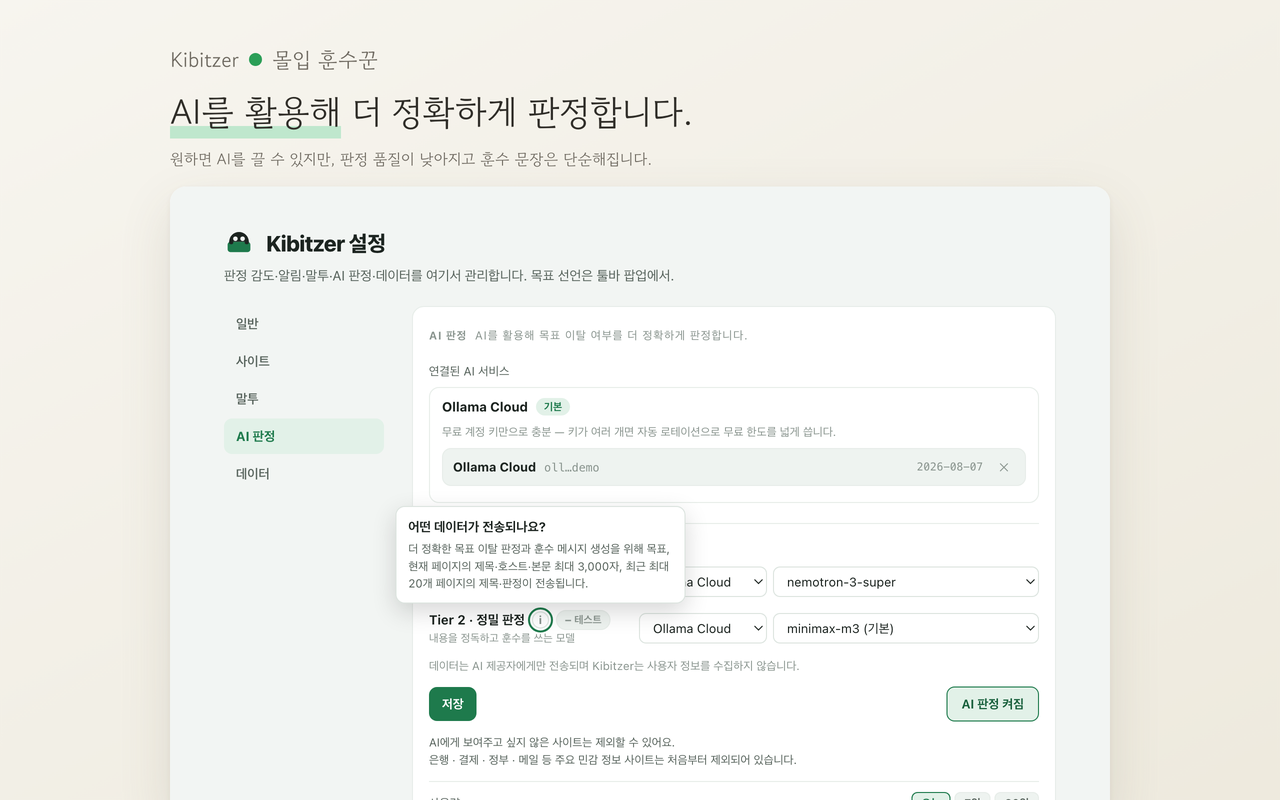
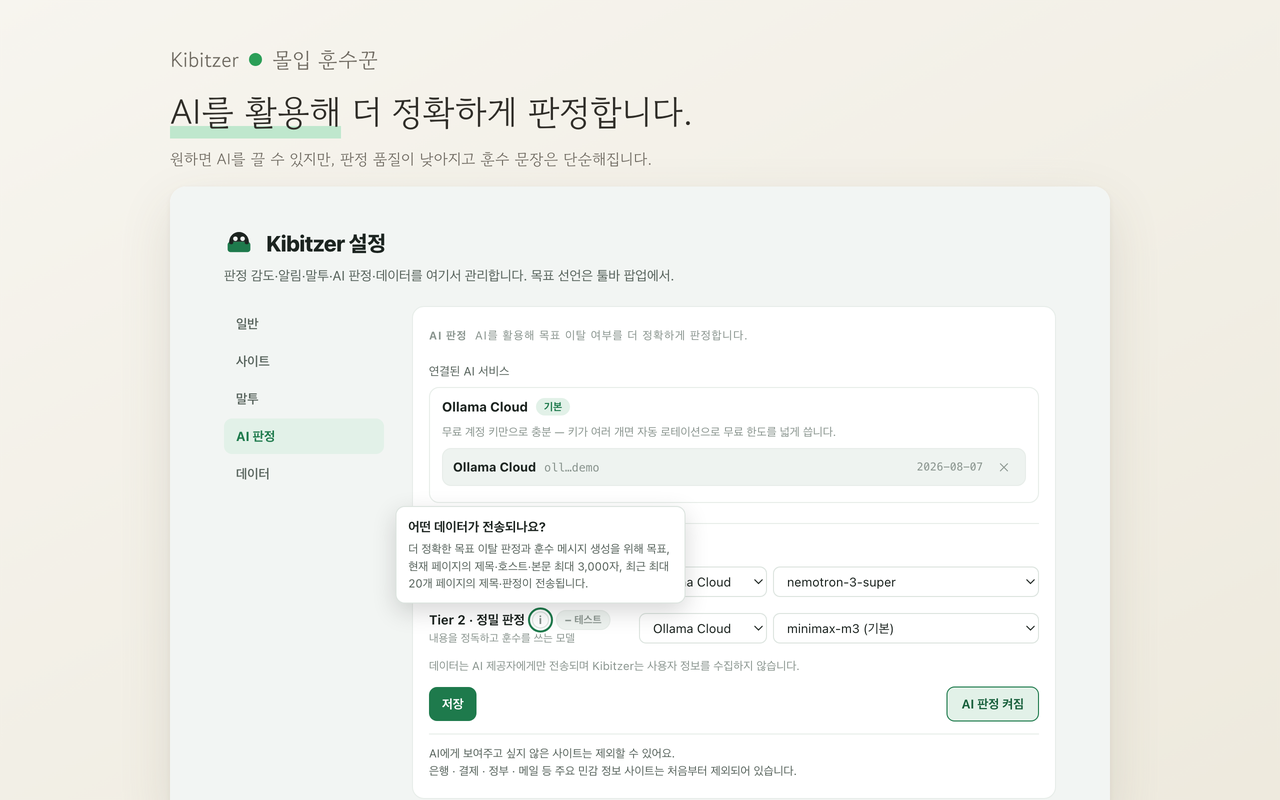
docs: refine AI store screenshot crop

Changed region(s): [[0.3125, 0.9062, 0.625, 0.9688], [0.7188, 0.9688, 0.75, 1.0]]

diff --git a/tools/store-shot/stub.js b/tools/store-shot/stub.js
@@ -190,7 +190,8 @@
       "--ok-fg:#175f3b;--err:#bf4540;--err-soft:#f7e2e0;--err-fg:#8f322c;" +
       "--sd-ink:#6e6960;--sd-ink3:#9b968c;--sd-line:#e6e3dc;--sd-leaf:#5aa63c;--sd-bg:#ffffff}" +
       (scene === "ai"
-        ? ".kadd,.connectbtn,.privacy-link{display:none!important}.store-ai-note{margin:0 0 10px;" +
+        ? ".kadd,.connectbtn,.privacy-link,.usec,.privacy{display:none!important}" +
+          ".store-ai-note{border-top:1px solid var(--line-soft);padding-top:10px;margin:0 0 10px;" +
           "font-size:11.5px;line-height:1.55;color:var(--page-ink-2)}"
         : "");
     document.head.appendChild(s);
